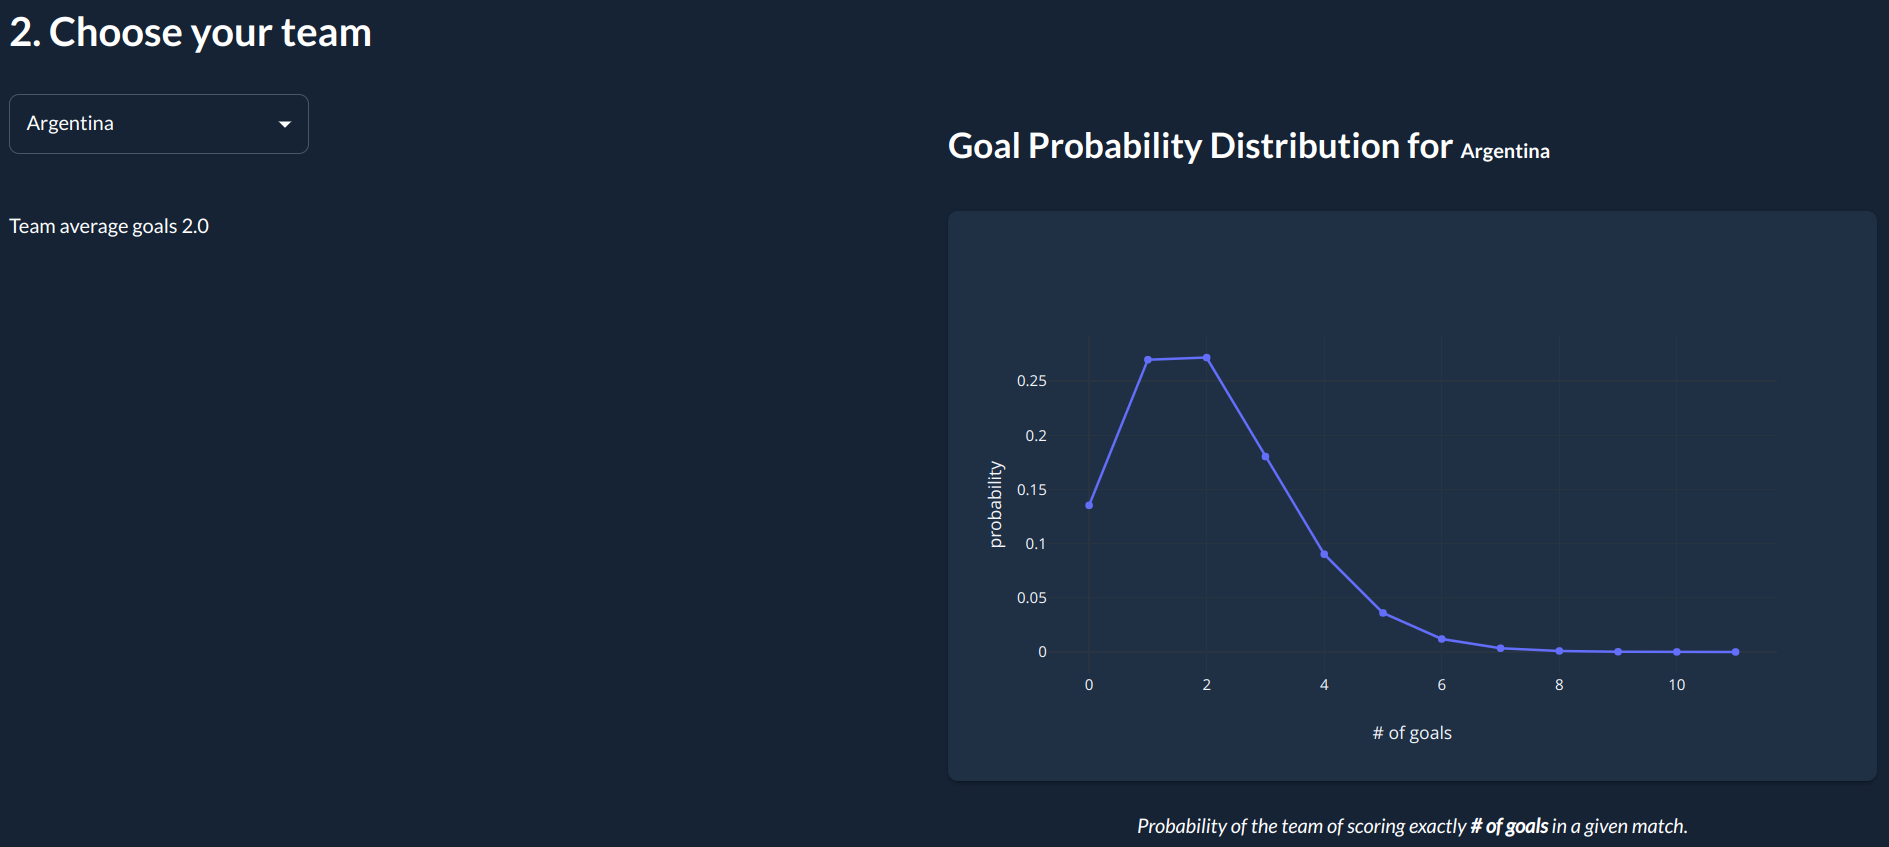
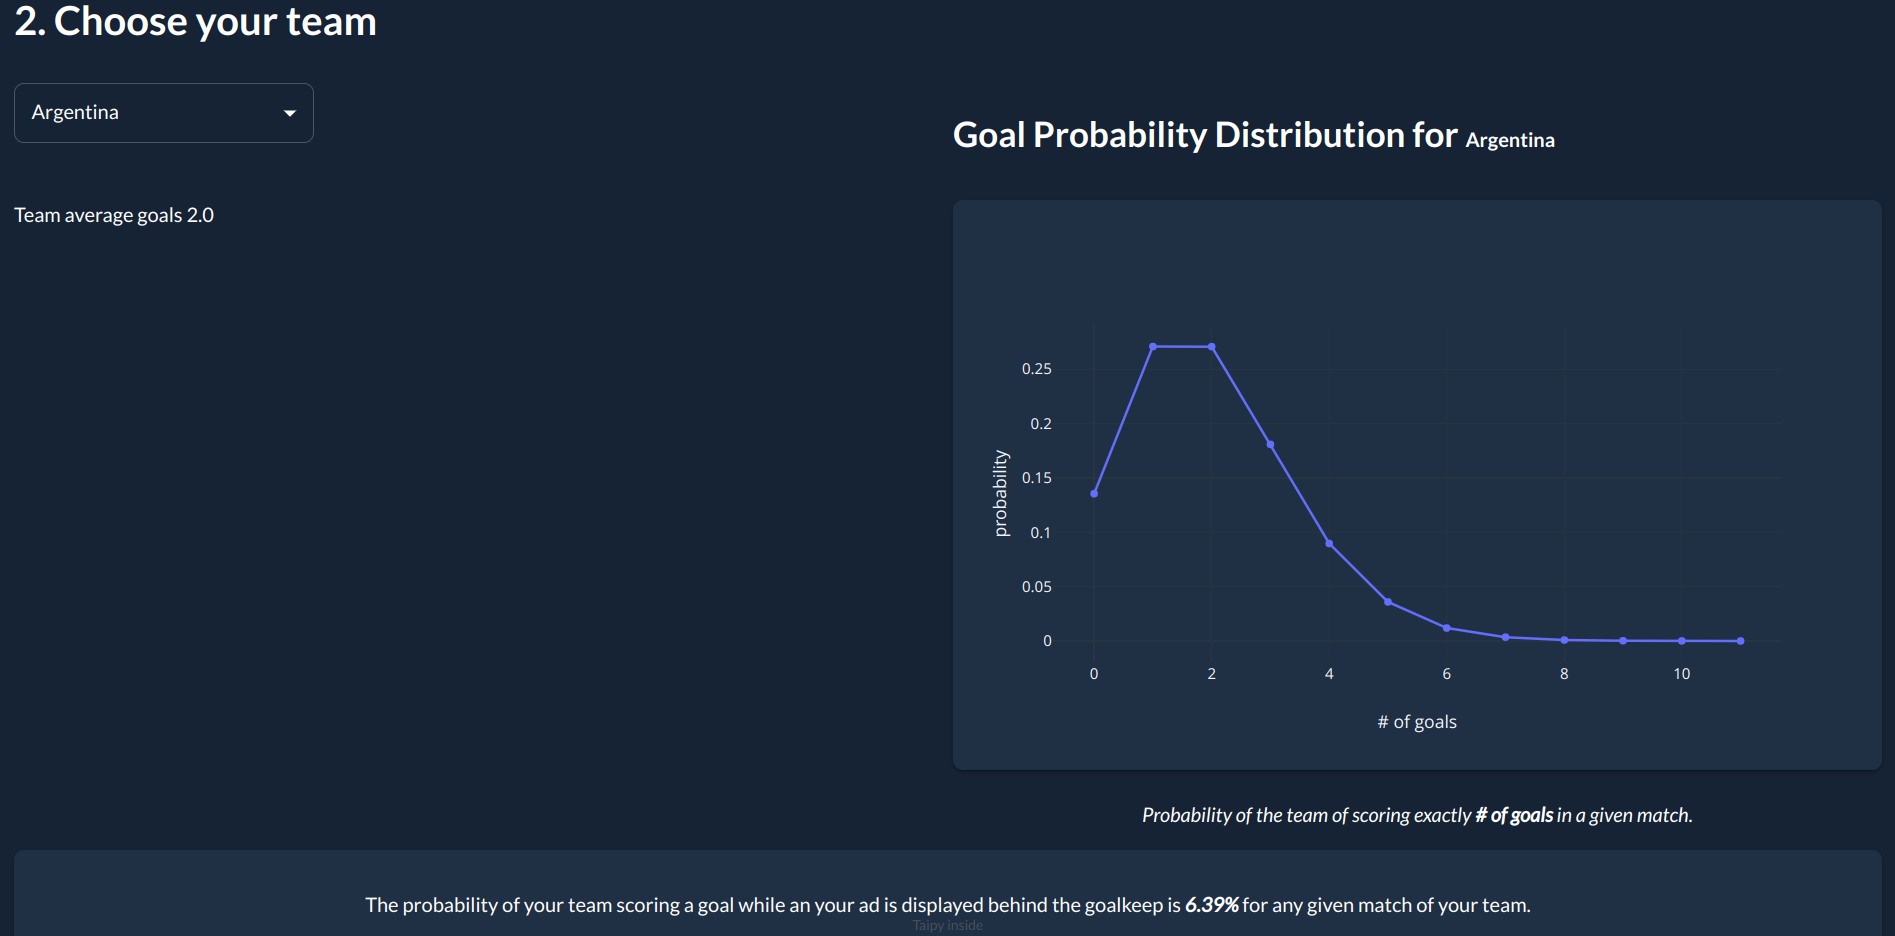
Updated image and prediction page footer

diff --git a/pages/prediction/prediction.md b/pages/prediction/prediction.md
@@ -48,6 +48,7 @@ Match length
 
 <|card|
 <center>
-<|{prob_percent:0.2f}%|> (Uncertainties provided in the subscription version :P)
+The probability of your team scoring a goal while an your ad is displayed behind the goalkeep is <b><i><|{prob_percent:0.2f}%|></i></b> for any given match of your team. 
 </center>
+<p style="text-align: center;font-style: italic; font-size: small">(Uncertainties provided in the subscription version :P)</p>
 |>
